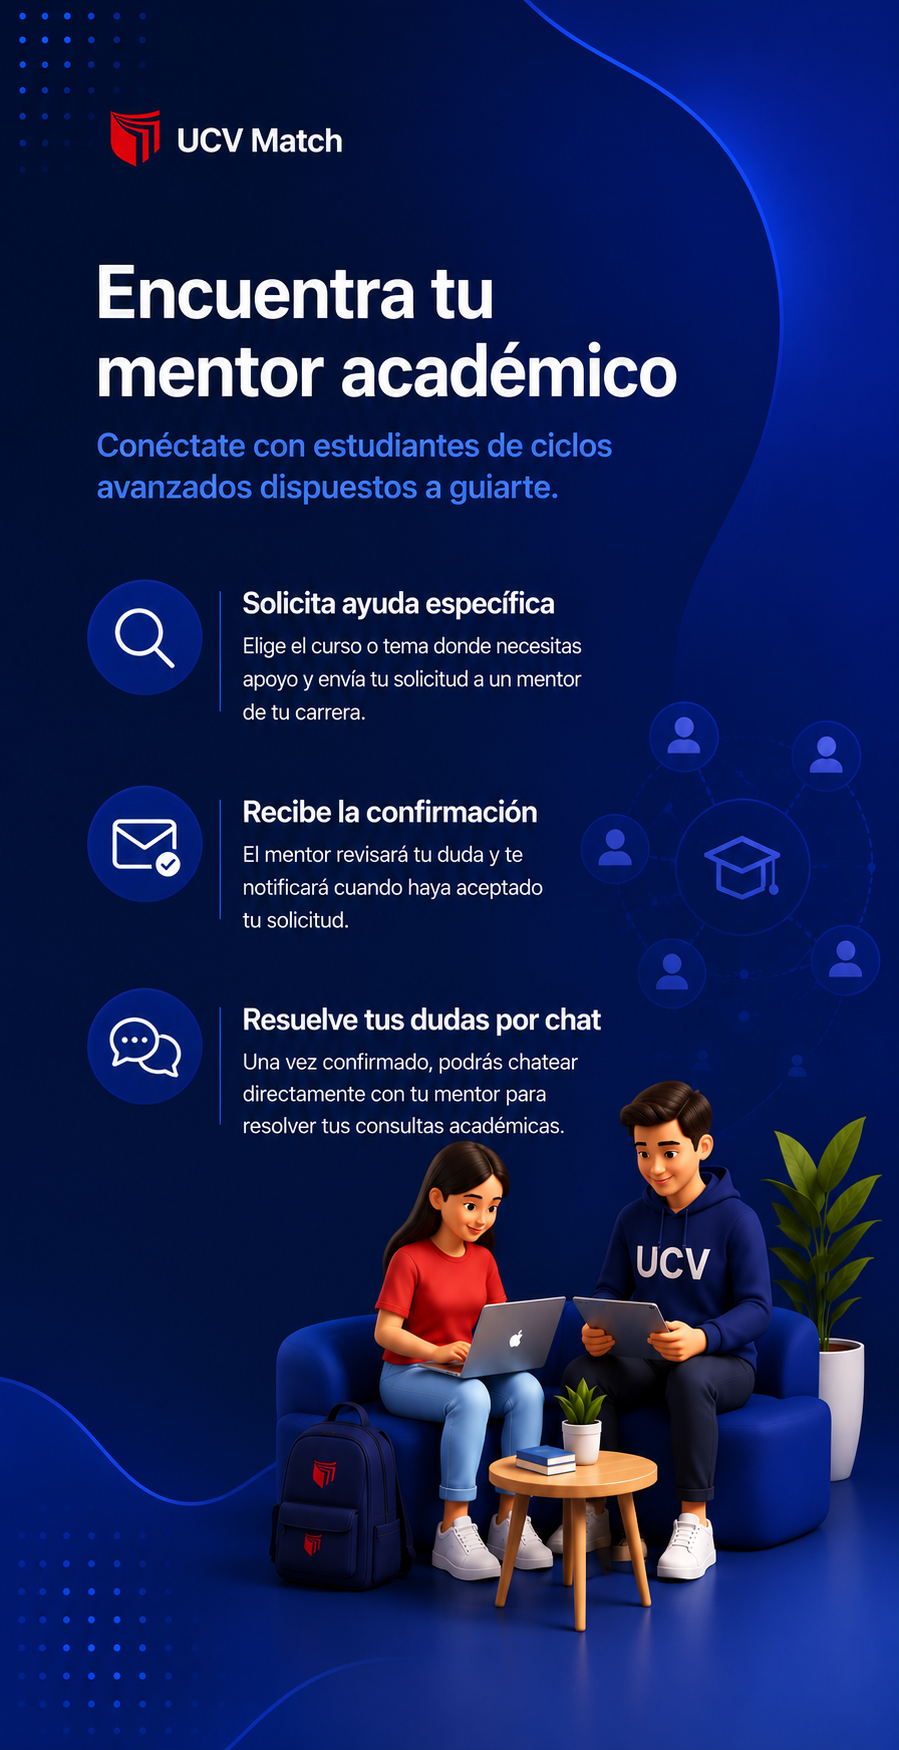
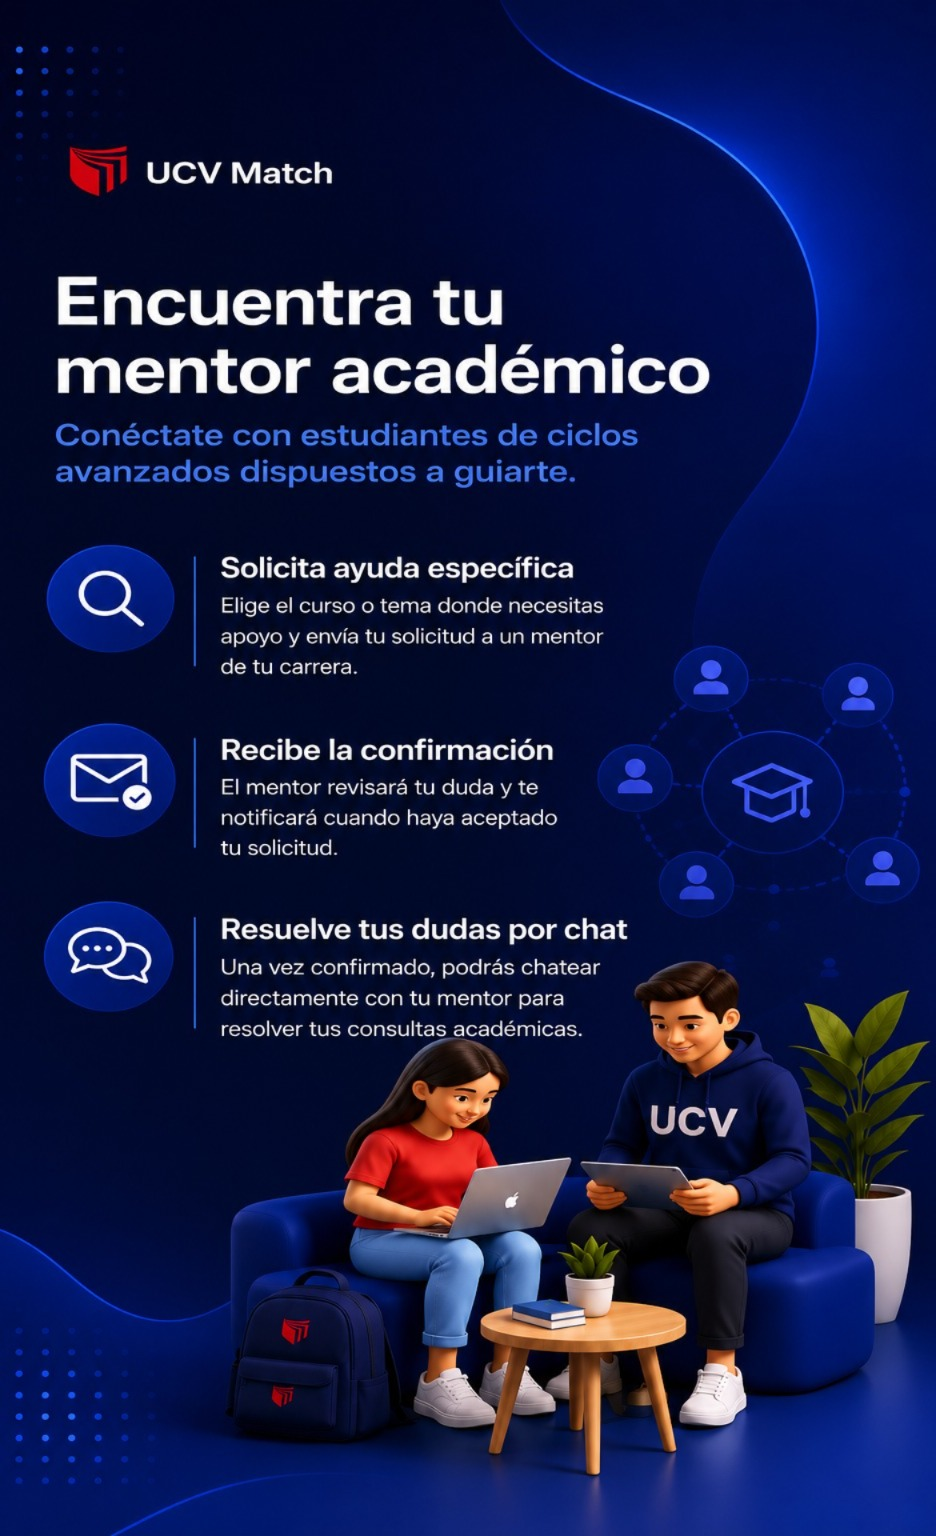
Fix left sidebar image alignment on Register page

diff --git a/frontend/src/pages/RegisterPage.jsx b/frontend/src/pages/RegisterPage.jsx
@@ -215,20 +215,20 @@ const RegisterPage = () => {
       animate={{ opacity: 1, y: 0 }}
       exit={{ opacity: 0, y: -20 }}
       transition={{ duration: 0.4, ease: 'easeInOut' }}
-      className="flex w-full min-h-screen bg-white overflow-y-auto font-sans">
+      className="flex w-full h-screen bg-white font-sans">
 
       {/* COLUMNA IZQUIERDA - IMAGEN ÚNICA */}
-      <div className="hidden md:flex md:w-1/2 h-screen relative bg-[#0f2a5c]">
-        <img 
-          src="/Imagen_crear cuenta.png" 
-          alt="Panel UCV Match" 
-          className="w-full h-full object-fill"
+      <div className="hidden md:flex md:w-1/2 h-full bg-[#061539] relative overflow-hidden items-center justify-center p-2 lg:p-6">
+        <img
+          src="/Imagen_crear cuenta.png"
+          alt="Encuentra tu mentor académico - UCV Match"
+          className="w-full h-full object-contain max-h-full select-none"
         />
       </div>
 
       {/* COLUMNA DERECHA - FORMULARIO */}
-      <div className="flex-1 flex flex-col justify-center items-center bg-white pt-16 pb-8 px-4 md:px-8 relative min-h-screen overflow-y-auto">
-        <div className="w-full max-w-md">
+      <div className="flex-1 flex flex-col items-center bg-white relative h-full overflow-y-auto">
+        <div className="w-full max-w-md py-8 px-4 md:px-8">
 
           {/* Logo Central */}
           <div className="flex items-center justify-center gap-3 mb-6">